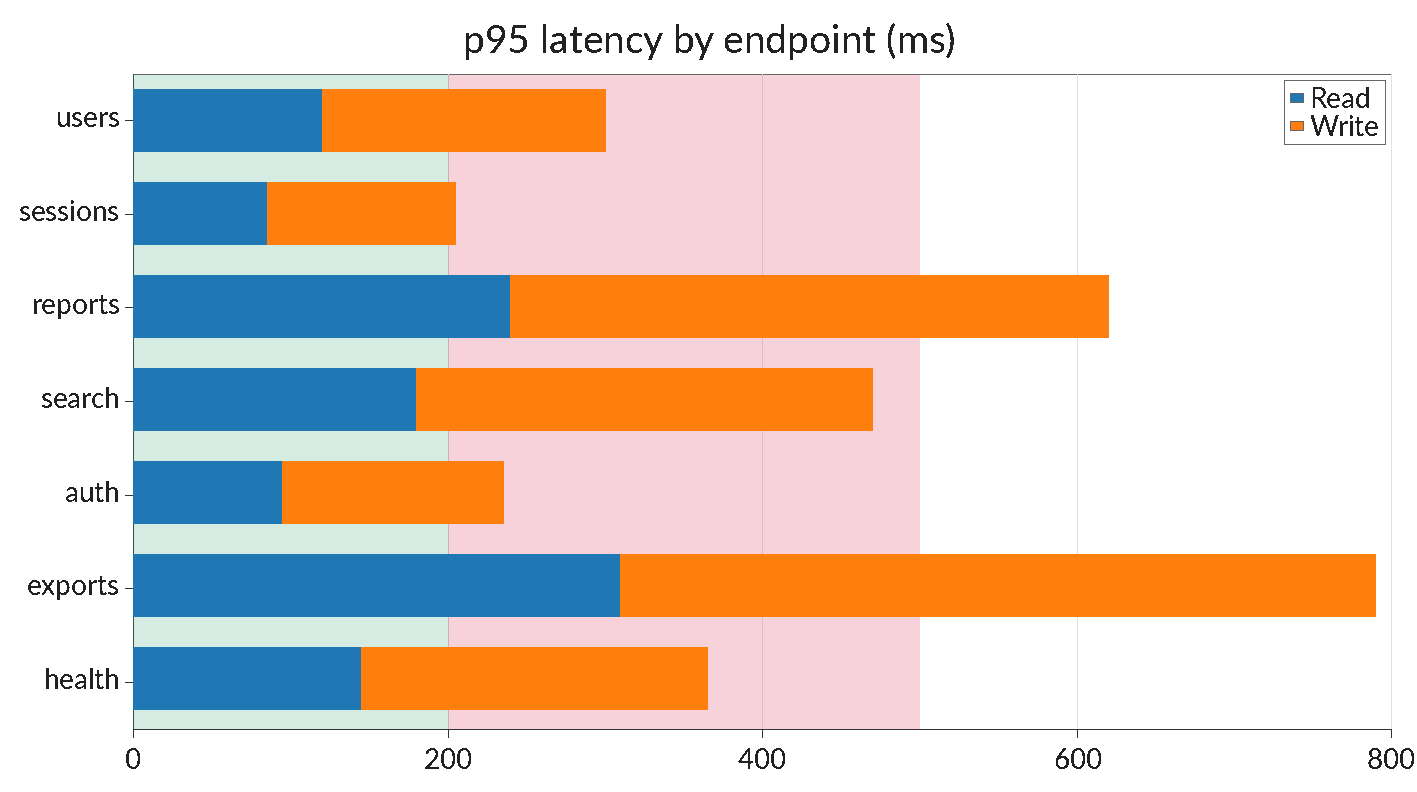
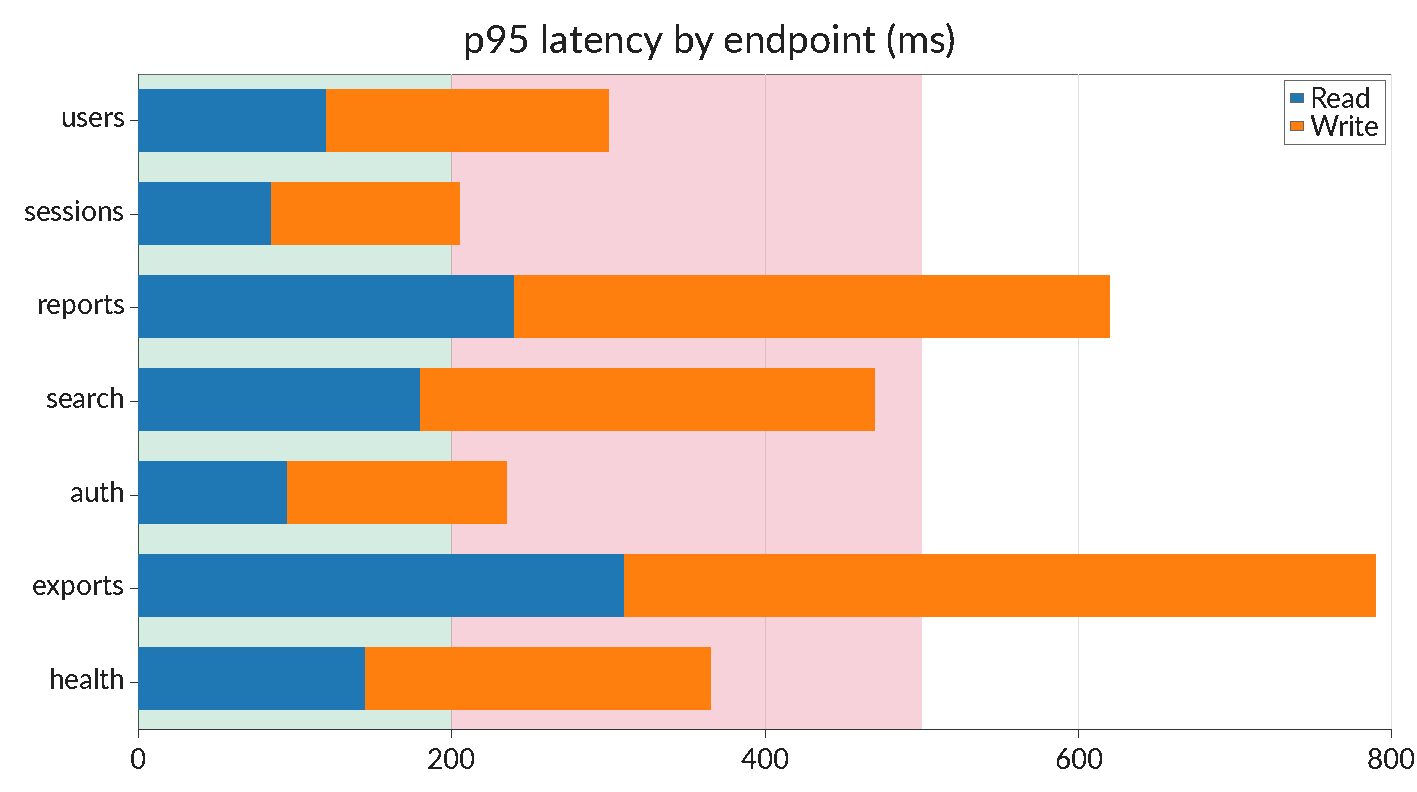
Size horizontal-bar Y-axis margin to widest categorical label
fastchart_compute_layout reserved a left margin sized for a
6-char numeric Y-axis probe ("999999"). Horizontal-bar charts have
a categorical Y axis with arbitrary label widths — anything longer
than the probe (e.g. "/api/v2/exports") got clipped at the canvas
left edge.

Extend compute_layout with optional cat_y_labels / n_cat_y_labels
parameters. When provided, the left margin is sized by the widest
measured label rather than the numeric probe. Numeric callers pass
NULL / 0; horizontal-bar passes the borrowed category labels.

Output for the existing 04_bar_horizontal example shifts by a few
pixels (margin grew to fit "sessions"); all other gallery PNGs are
bit-identical, confirming the NULL/0 path is a no-op.

diff --git a/fastchart_axis.c b/fastchart_axis.c
@@ -364,6 +364,8 @@ void fastchart_draw_marker(gdImagePtr im, int x, int y,
 
 void fastchart_compute_layout(fastchart_obj *chart, gdImagePtr im,
                               int has_y_axis, int has_x_axis,
+                              const char *const *cat_y_labels,
+                              int n_cat_y_labels,
                               fastchart_rect *out_plot)
 {
     /* Every renderer calls compute_layout exactly once at draw entry,
@@ -449,11 +451,32 @@ void fastchart_compute_layout(fastchart_obj *chart, gdImagePtr im,
         }
     }
 
-    /* Y-axis: reserve enough room for a 6-char numeric label. The
-     * actual label width is data-dependent; we pick a conservative
-     * "999999" sample so layout is stable across data ranges. */
+    /* Y-axis: reserve enough room for the widest tick label.
+     *
+     * For numeric Y axes the actual label width is data-dependent;
+     * we pick a conservative "999999" sample so layout is stable
+     * across data ranges.
+     *
+     * For categorical Y axes (horizontal-bar) the labels can be
+     * arbitrarily long ("/api/v2/exports", etc.) — measure the
+     * widest one so it doesn't get clipped at the canvas edge.
+     * Falls back to the numeric probe if none of the labels can be
+     * measured. */
     if (labels_drawn && has_y_axis && probe_ok) {
-        left += probe_w + tick_mark_len + y_label_pad;
+        int y_label_w = probe_w;
+        if (cat_y_labels && n_cat_y_labels > 0 && axis_font) {
+            int widest = 0;
+            for (int i = 0; i < n_cat_y_labels; i++) {
+                if (!cat_y_labels[i]) continue;
+                int w = 0;
+                if (fastchart_text_measure(im, axis_font, size, cat_y_labels[i],
+                                           &w, NULL, NULL, 0) == 0 && w > widest) {
+                    widest = w;
+                }
+            }
+            if (widest > y_label_w) y_label_w = widest;
+        }
+        left += y_label_w + tick_mark_len + y_label_pad;
     }
 
     /* Y-axis title: rotated 90deg on the left of the y-axis labels.

diff --git a/fastchart_bar.c b/fastchart_bar.c
@@ -138,7 +138,7 @@ int fastchart_bar_render_to_image(fastchart_bar_obj *self, gdImagePtr im)
     }
 
     fastchart_rect plot;
-    fastchart_compute_layout((fastchart_obj *)self, im, 1, 1, &plot);
+    fastchart_compute_layout((fastchart_obj *)self, im, 1, 1, NULL, 0, &plot);
 
     fastchart_palette pal;
     fastchart_palette_init(im, (int)self->theme, &pal);
@@ -409,8 +409,15 @@ static int fastchart_bar_render_horizontal(fastchart_bar_obj *self, gdImagePtr i
         fastchart_value_range_apply_override((fastchart_obj *)self, &range);
     }
 
+    /* Borrow category labels up front so layout can size the left
+     * margin to the widest one — categorical Y labels can be far
+     * wider than the numeric "999999" probe (e.g. "/api/v2/exports").
+     * Same buffer is then handed to the categorical Y-axis renderer. */
+    const char **label_ptrs = fastchart_borrow_category_labels((fastchart_obj *)self, n_categories);
+
     fastchart_rect plot;
-    fastchart_compute_layout((fastchart_obj *)self, im, 1, 1, &plot);
+    fastchart_compute_layout((fastchart_obj *)self, im, 1, 1,
+                             label_ptrs, n_categories, &plot);
 
     fastchart_palette pal;
     fastchart_palette_init(im, (int)self->theme, &pal);
@@ -420,7 +427,6 @@ static int fastchart_bar_render_horizontal(fastchart_bar_obj *self, gdImagePtr i
     fastchart_draw_title(im, (fastchart_obj *)self, &plot, &pal);
     fastchart_draw_x_axis_numeric(im, (fastchart_obj *)self, &plot, &pal, &range);
 
-    const char **label_ptrs = fastchart_borrow_category_labels((fastchart_obj *)self, n_categories);
     fastchart_draw_y_axis_categorical(im, (fastchart_obj *)self, &plot, &pal, n_categories, label_ptrs);
     if (label_ptrs) efree((void *)label_ptrs);
 

diff --git a/fastchart_axis.h b/fastchart_axis.h
@@ -36,9 +36,17 @@ typedef struct {
 /* Compute the plot rectangle inside the canvas after subtracting space
  * for title (top), x-axis labels (bottom), and y-axis labels (left).
  * Right margin grows when the chart has a secondary Y axis. Axis
- * titles, when set on the chart, also reserve space. */
+ * titles, when set on the chart, also reserve space.
+ *
+ * `cat_y_labels` / `n_cat_y_labels` switch the left-margin reservation
+ * from the numeric "999999" probe to the actual widest categorical
+ * label width — needed for horizontal-bar layouts where the Y axis is
+ * categorical and label widths are arbitrary. Pass NULL / 0 for the
+ * default numeric Y axis. */
 void fastchart_compute_layout(fastchart_obj *chart, gdImagePtr im,
                               int has_y_axis, int has_x_axis,
+                              const char *const *cat_y_labels,
+                              int n_cat_y_labels,
                               fastchart_rect *out_plot);
 
 /* "Nice" rounded value range that brackets [dmin, dmax]. Picks tick

diff --git a/fastchart_area.c b/fastchart_area.c
@@ -92,7 +92,7 @@ int fastchart_area_render_to_image(fastchart_area_obj *self, gdImagePtr im)
     }
 
     fastchart_rect plot;
-    fastchart_compute_layout((fastchart_obj *)self, im, 1, 1, &plot);
+    fastchart_compute_layout((fastchart_obj *)self, im, 1, 1, NULL, 0, &plot);
 
     fastchart_palette pal;
     fastchart_palette_init(im, (int)self->theme, &pal);

diff --git a/fastchart_boxplot.c b/fastchart_boxplot.c
@@ -51,7 +51,7 @@ int fastchart_boxplot_render_to_image(fastchart_boxplot_obj *self, gdImagePtr im
     fastchart_value_range_apply_override((fastchart_obj *)self, &range);
 
     fastchart_rect plot;
-    fastchart_compute_layout((fastchart_obj *)self, im, 1, 1, &plot);
+    fastchart_compute_layout((fastchart_obj *)self, im, 1, 1, NULL, 0, &plot);
 
     fastchart_palette pal;
     fastchart_palette_init(im, (int)self->theme, &pal);

diff --git a/fastchart_bubble.c b/fastchart_bubble.c
@@ -53,7 +53,7 @@ int fastchart_bubble_render_to_image(fastchart_bubble_obj *self, gdImagePtr im)
     fastchart_value_range_compute(xmin, xmax, 6, &xrange);
 
     fastchart_rect plot;
-    fastchart_compute_layout((fastchart_obj *)self, im, 1, 1, &plot);
+    fastchart_compute_layout((fastchart_obj *)self, im, 1, 1, NULL, 0, &plot);
 
     fastchart_palette pal;
     fastchart_palette_init(im, (int)self->theme, &pal);

diff --git a/fastchart_gantt.c b/fastchart_gantt.c
@@ -55,7 +55,7 @@ int fastchart_gantt_render_to_image(fastchart_gantt_obj *self, gdImagePtr im)
     fastchart_gradient_cache_reset(&grad_cache);
 
     fastchart_rect plot;
-    fastchart_compute_layout((fastchart_obj *)self, im, 1, 1, &plot);
+    fastchart_compute_layout((fastchart_obj *)self, im, 1, 1, NULL, 0, &plot);
 
     /* Reserve a left margin for task name labels. */
     int label_pad = 0;

diff --git a/fastchart_line.c b/fastchart_line.c
@@ -85,7 +85,7 @@ int fastchart_line_render_to_image(fastchart_line_obj *self, gdImagePtr im)
     }
 
     fastchart_rect plot;
-    fastchart_compute_layout((fastchart_obj *)self, im, 1, 1, &plot);
+    fastchart_compute_layout((fastchart_obj *)self, im, 1, 1, NULL, 0, &plot);
 
     fastchart_palette pal;
     fastchart_palette_init(im, (int)self->theme, &pal);

diff --git a/fastchart_pie.c b/fastchart_pie.c
@@ -78,7 +78,7 @@ int fastchart_pie_render_to_image(fastchart_pie_obj *self, gdImagePtr im)
     fastchart_rect plot;
     /* No axes for pie charts -- pass 0/0 so layout reserves space
      * only for the title. */
-    fastchart_compute_layout((fastchart_obj *)self, im, 0, 0, &plot);
+    fastchart_compute_layout((fastchart_obj *)self, im, 0, 0, NULL, 0, &plot);
 
     fastchart_palette pal;
     fastchart_palette_init(im, (int)self->theme, &pal);

diff --git a/fastchart_scatter.c b/fastchart_scatter.c
@@ -64,7 +64,7 @@ int fastchart_scatter_render_to_image(fastchart_scatter_obj *self, gdImagePtr im
     fastchart_value_range_compute(x_min, x_max, 6, &xrange);
 
     fastchart_rect plot;
-    fastchart_compute_layout((fastchart_obj *)self, im, 1, 1, &plot);
+    fastchart_compute_layout((fastchart_obj *)self, im, 1, 1, NULL, 0, &plot);
 
     fastchart_palette pal;
     fastchart_palette_init(im, (int)self->theme, &pal);

diff --git a/fastchart_stock.c b/fastchart_stock.c
@@ -70,7 +70,7 @@ int fastchart_stock_render_to_image(fastchart_stock_obj *self, gdImagePtr im)
     }
 
     fastchart_rect plot;
-    fastchart_compute_layout((fastchart_obj *)self, im, 1, 1, &plot);
+    fastchart_compute_layout((fastchart_obj *)self, im, 1, 1, NULL, 0, &plot);
 
     int n_indicator_panes = self->indicator_pane_count;
 